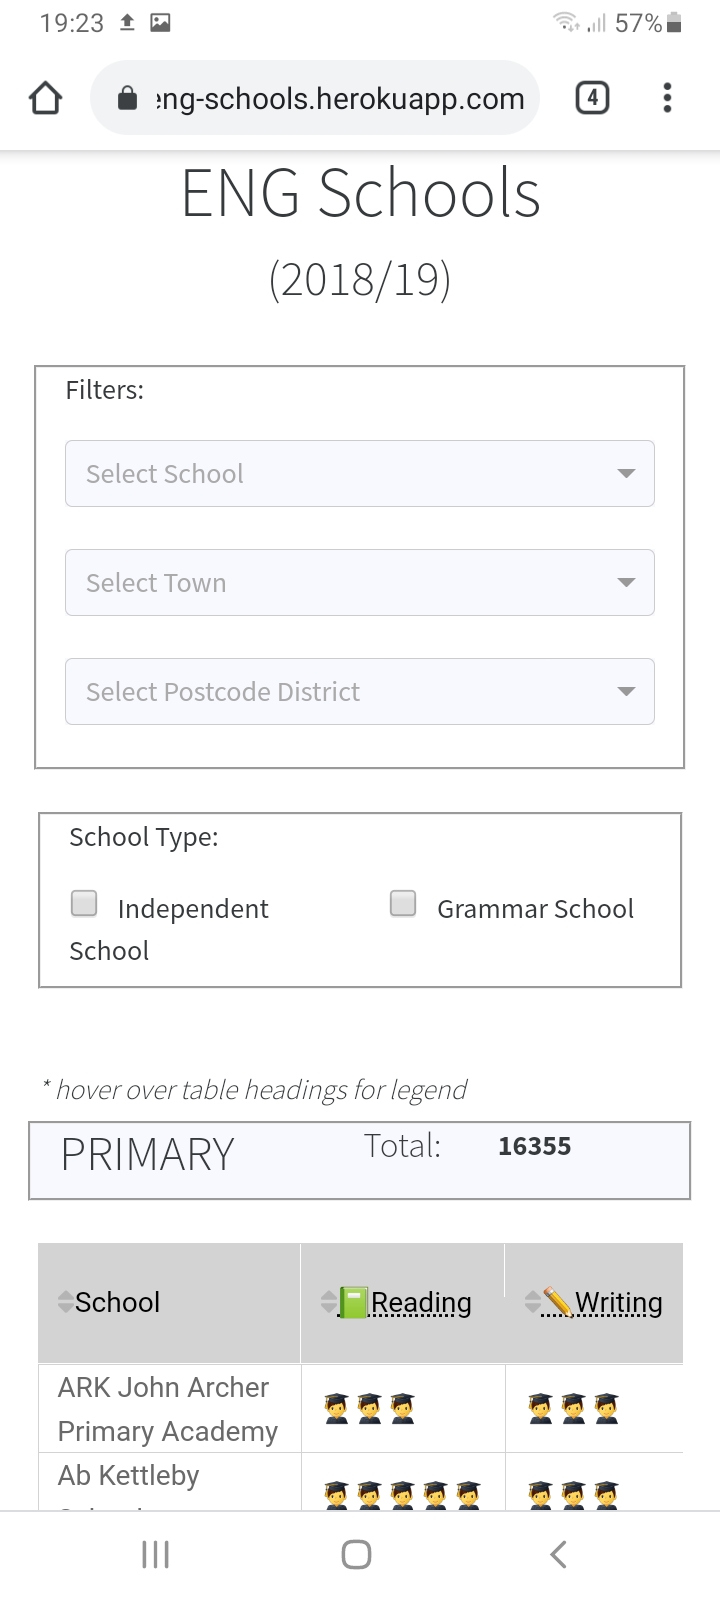
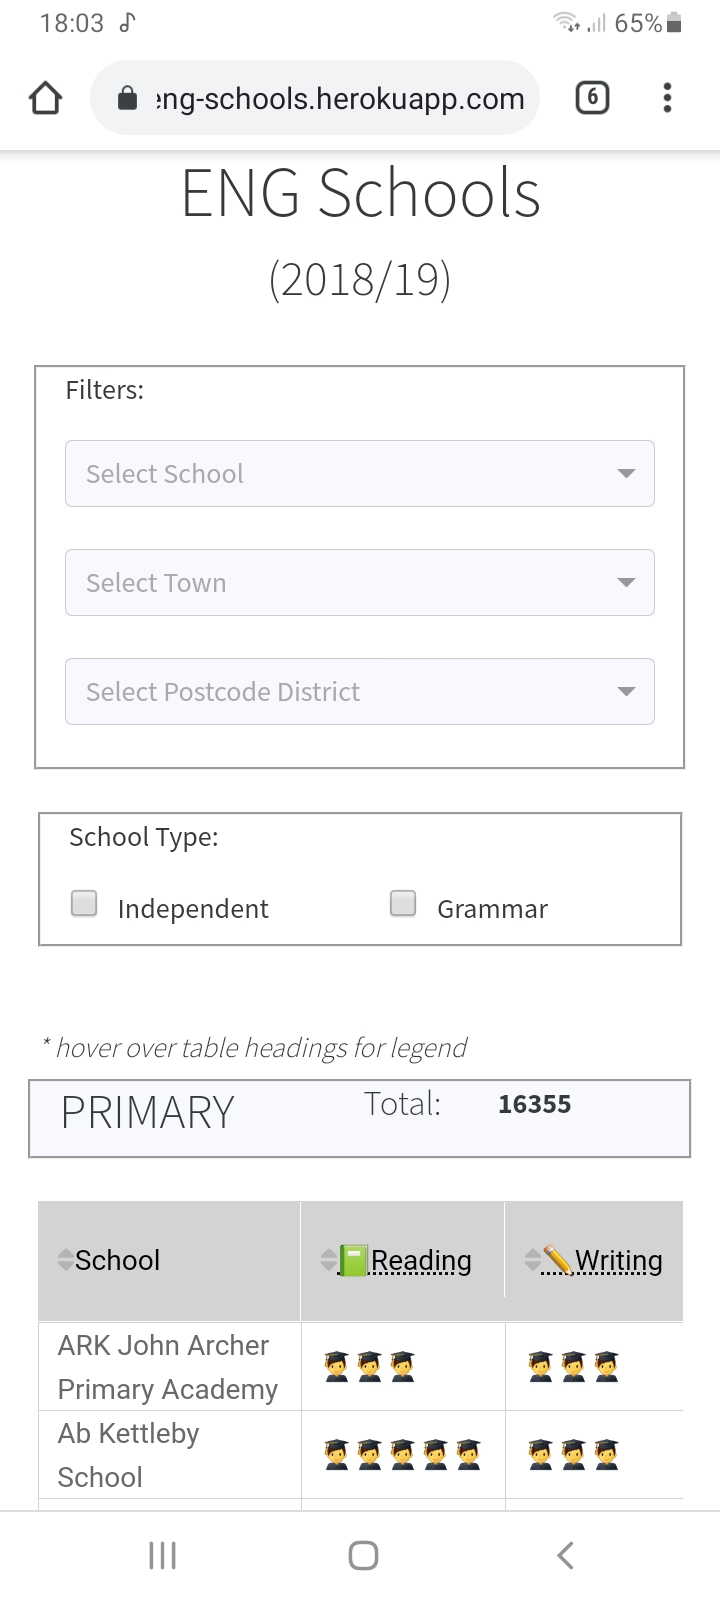
Add files via upload

diff --git a/app.py b/app.py
@@ -171,36 +171,39 @@ app.layout = html.Div(
 
         html.Div(
             [
-                dbc.Row(
+                dbc.Col(
                     [
-                        dbc.Col(
-                            html.P("School Type:")
-                        ),
+                        html.P("School Type:"),
 
-                        dbc.Col(
-                            dcc.Checklist(
-                                id="independent_sch",
-                                options=[
-                                    {"label": "Independent School", "value": "GS"},
-                                ],
-                                value=[],
-                                inputStyle={"margin-right": "10px"}
-                            )
-                        ),
+                        dbc.Row(
+                            [
+                                dbc.Col(
+                                    dcc.Checklist(
+                                        id="independent_sch",
+                                        options=[
+                                            {"label": "Independent", "value": "GS"},
+                                        ],
+                                        value=[],
+                                        inputStyle={"margin-right": "10px"}
+                                    )
+                                ),
 
-                        dbc.Col(
-                            dcc.Checklist(
-                                id="grammar_sch",
-                                options=[
-                                    {"label": "Grammar School", "value": "GS"},
-                                ],
-                                value=[],
-                                inputStyle={"margin-right": "10px"}
-                            )
+                                dbc.Col(
+                                    dcc.Checklist(
+                                        id="grammar_sch",
+                                        options=[
+                                            {"label": "Grammar", "value": "GS"},
+                                        ],
+                                        value=[],
+                                        inputStyle={"margin-right": "10px"}
+                                    )
+                                )
+                            ]
                         )
                     ], style={"border-style": "groove"}
-                )
-            ], style={"padding": "0px 30px 0px 30px"}
+                ),
+
+            ], style={"padding": "0px 20px 0px 20px"}
         ),
 
         html.Br(), html.Br(),
